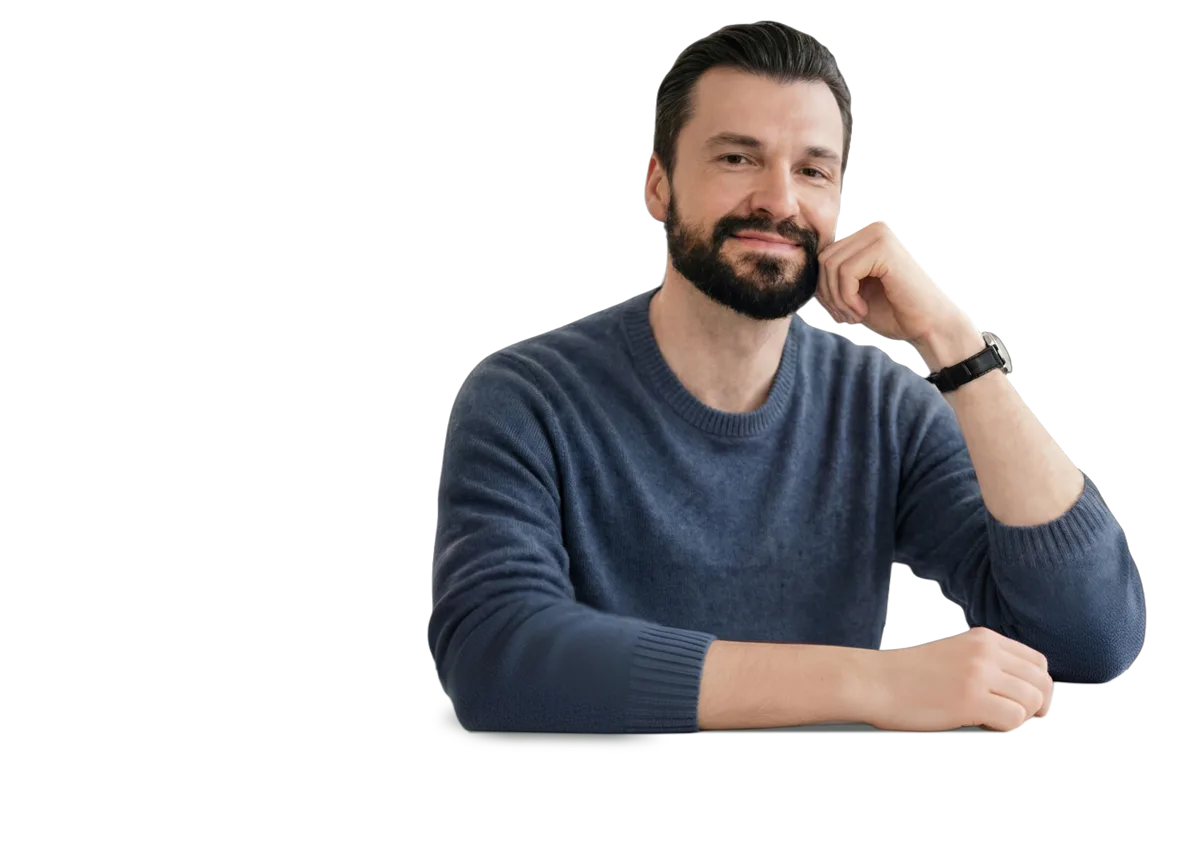
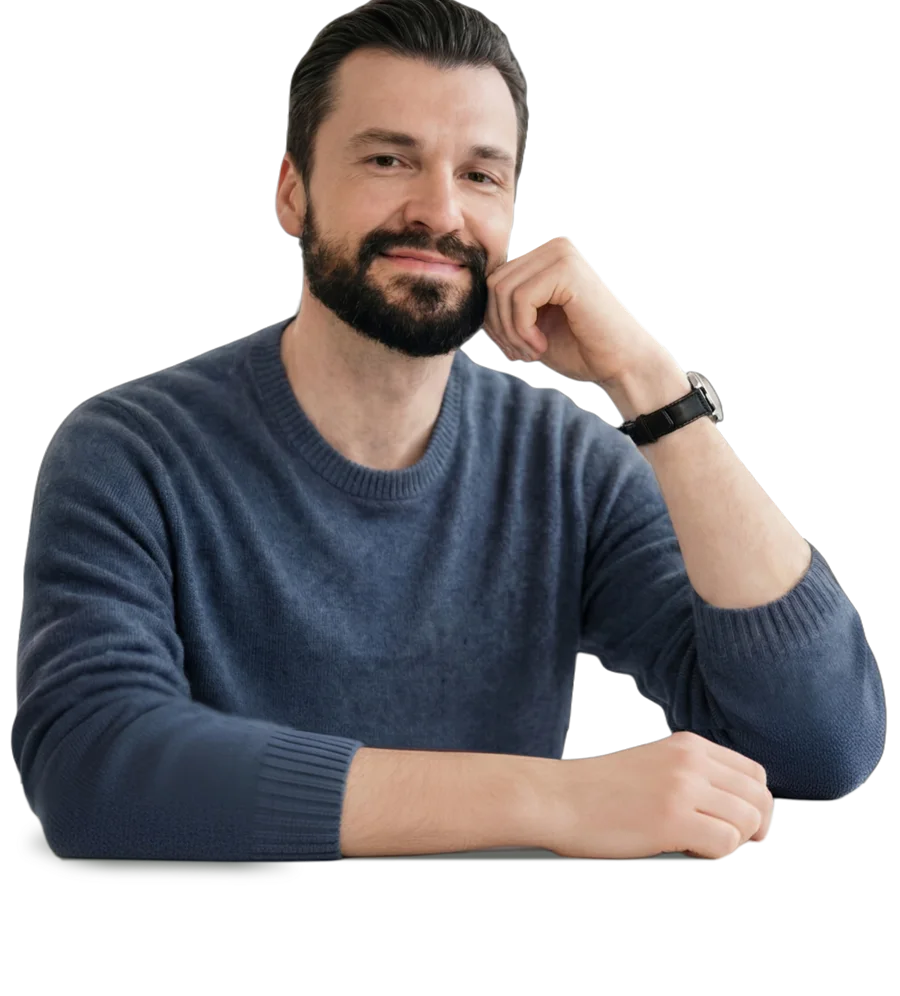
Первый экран: обрезка портретов, пропорции

diff --git a/index.html b/index.html
@@ -68,8 +68,8 @@ nav a:hover{color:var(--teal-dark)}
 
 /* первый экран */
 .hero{padding:56px 0 0;overflow:hidden}
-.hero-grid{display:grid;grid-template-columns:1.1fr .9fr;gap:40px;align-items:end}
-.hero h1{font-size:clamp(40px,5.6vw,72px);margin-bottom:24px}
+.hero-grid{display:grid;grid-template-columns:1.25fr .75fr;gap:48px;align-items:end}
+.hero h1{font-size:clamp(38px,4.6vw,62px);margin-bottom:24px;max-width:15ch}
 .hero .who{font-size:18px;color:var(--soft);margin-bottom:32px;max-width:46ch}
 .hero .who b{color:var(--deep);font-weight:500}
 .actions{display:flex;flex-wrap:wrap;gap:12px;margin-bottom:40px}
@@ -78,11 +78,11 @@ nav a:hover{color:var(--teal-dark)}
 .facts dt{font-family:var(--serif);font-size:38px;line-height:1;color:var(--teal-dark)}
 .facts dd{margin:6px 0 0;font-size:15px;color:var(--soft)}
 .portrait{position:relative;align-self:end}
-.portrait::before{content:"";position:absolute;left:8%;right:2%;bottom:0;top:12%;background:var(--sand);border-radius:999px 999px 0 0}
+.portrait::before{content:"";position:absolute;left:-6%;right:-6%;bottom:0;top:18%;background:var(--sand);border-radius:999px 999px 0 0}
 .portrait img{position:relative;width:100%;height:auto}
 @media (max-width:860px){
   .hero-grid{grid-template-columns:1fr}
-  .portrait{max-width:440px;margin:0 auto}
+  .portrait{max-width:360px;margin:0 auto}
   .facts{margin-bottom:24px}
 }
 
@@ -127,7 +127,7 @@ nav a:hover{color:var(--teal-dark)}
 
 /* обо мне */
 .about-grid{display:grid;grid-template-columns:.8fr 1.2fr;gap:64px;align-items:start}
-.about-photo{position:sticky;top:100px;background:var(--sand);border-radius:28px 28px 200px 28px;overflow:hidden;padding-top:24px}
+.about-photo{position:sticky;top:100px;background:var(--sand);border-radius:240px 240px 28px 28px;overflow:hidden;padding:40px 24px 0}
 .about-text h2{margin-bottom:28px}
 .about-text .big{font-family:var(--serif);font-size:24px;line-height:1.45;margin-bottom:24px}
 .about-text p{max-width:64ch}
@@ -277,7 +277,7 @@ footer.site .wrap{display:flex;flex-wrap:wrap;justify-content:space-between;gap:
       </dl>
     </div>
     <div class="portrait">
-      <img src="img/artem-blue.webp" width="1200" height="844" alt="Артём Ершов, психолог" fetchpriority="high">
+      <img src="img/artem-blue.webp" width="900" height="996" alt="Артём Ершов, психолог" fetchpriority="high">
     </div>
   </div>
 </section>
@@ -396,7 +396,7 @@ footer.site .wrap{display:flex;flex-wrap:wrap;justify-content:space-between;gap:
 
 <section id="about">
   <div class="wrap about-grid">
-    <div class="about-photo"><img src="img/artem-red.webp" width="1000" height="671" alt="Артём Ершов" loading="lazy"></div>
+    <div class="about-photo"><img src="img/artem-red.webp" width="600" height="798" alt="Артём Ершов" loading="lazy"></div>
     <div class="about-text">
       <h2>Обо мне</h2>
       <p class="big">Меня зовут Артём Ершов. Я практикующий психолог, работаю в интегративном подходе. С 2015 года помогаю людям справляться с трудностями в отношениях с собой, с другими и с миром.</p>
